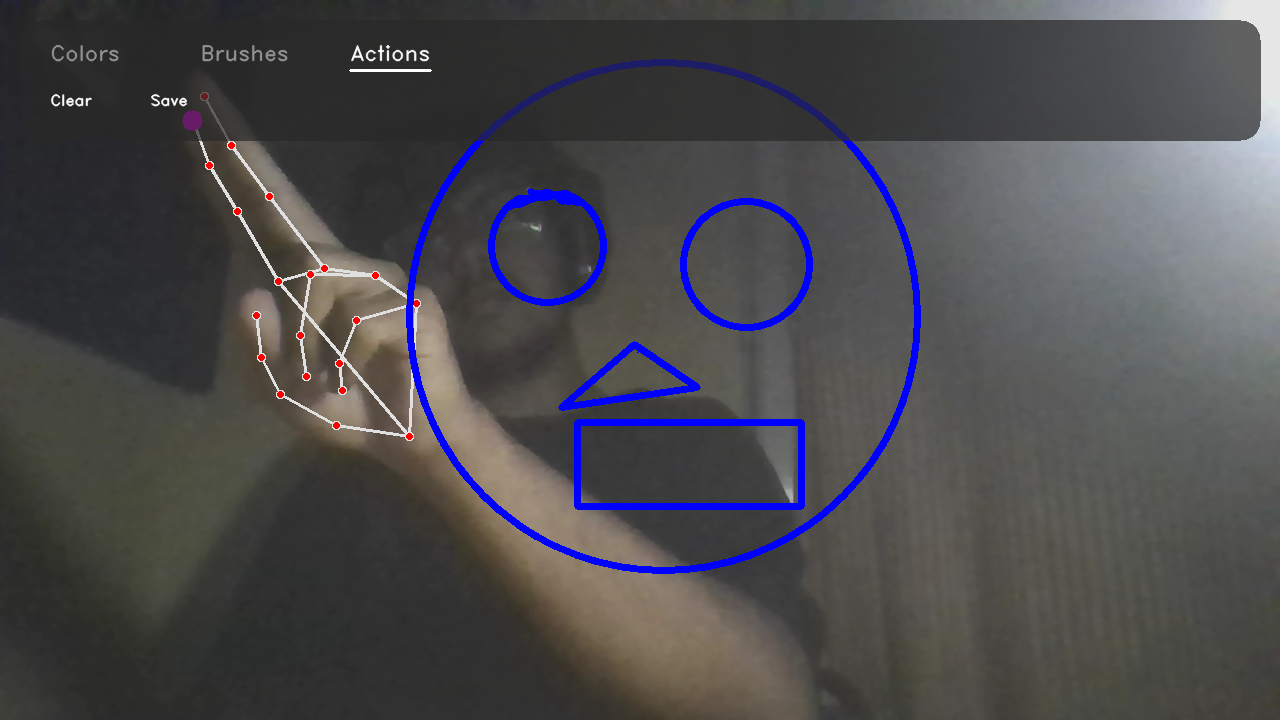
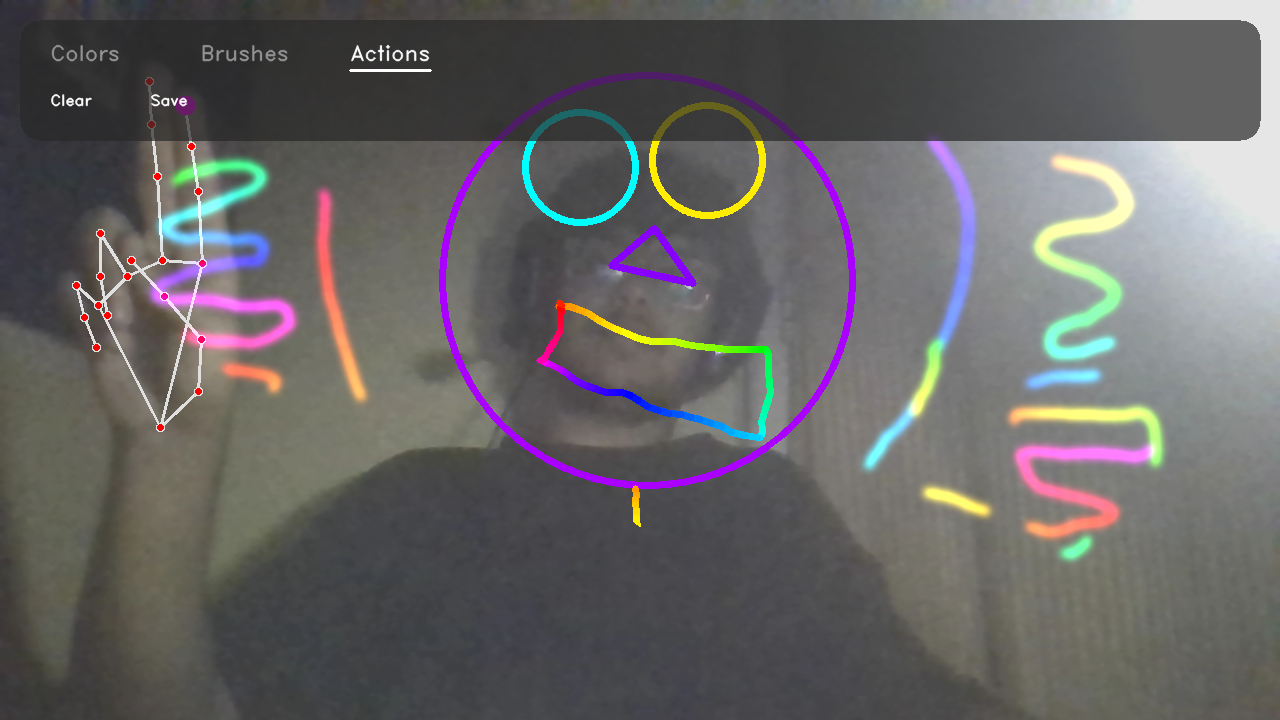
docs: add professional README.md with masterpiece demo

diff --git a/README.md b/README.md
@@ -1,0 +1,75 @@
+# 🎨 AI Virtual Canvas - Premium Edition
+
+![AI Virtual Canvas Test](masterpiece.png)
+
+A high-performance, professional-grade interactive drawing application powered by **OpenCV** and **MediaPipe**. This project transforms your webcam into a digital canvas, allowing you to create art in mid-air with advanced features like neon glow, intelligent shape snapping, and intuitive palm gestures.
+
+---
+
+## 🌟 Key Features
+
+### 🚀 Advanced Rendering
+*   **Neon Glow Brush:** Real-time Gaussian-blurred glow layers for a futuristic light-painting effect.
+*   **Rainbow Spectrum:** A dynamic brush that cycles through the HSV color spectrum as you move.
+*   **Glassmorphism UI:** A modern, semi-transparent HUD with smooth category transitions (Colors, Brushes, Actions).
+*   **EMA Smoothing:** Exponential Moving Average tracking to ensure silky-smooth lines even with jittery hand movements.
+
+### 🧠 Intelligent Interaction
+*   **Shape Snapping:** Draw a rough circle, square, or triangle; the AI analyzes the geometric heuristics and "snaps" it into a perfect primitive.
+*   **Palm-to-Erase:** An intuitive gesture-based eraser that activates when you show an open palm (all fingers up).
+*   **Finger Selection:** Use two fingers (Index + Middle) to navigate the premium menu and change tools mid-air.
+
+---
+
+## ✋ Gesture Guide
+
+| Gesture | Action | Description |
+| :--- | :--- | :--- |
+| **Index Up** | 🖌 **Draw** | Standard drawing mode using the active brush. |
+| **Index + Middle Up** | 👆 **Select** | Hover over the top bar to change colors or modes. |
+| **Open Palm** | 🧽 **Erase** | High-powered eraser centered on your palm. |
+| **Closed Shape** | 📐 **Snap** | Close a shape (start = end) to trigger geometric snapping. |
+
+---
+
+## 🛠 Installation & Setup
+
+### Prerequisites
+*   Python 3.10+
+*   Webcam
+
+### 1. Clone the Repository
+```bash
+git clone https://github.com/SparshMishra09/Hand_Gesture_Control.git
+cd Hand_Gesture_Control
+```
+
+### 2. Install Dependencies
+```bash
+pip install -r requirements.txt
+```
+
+### 3. Launch the Application
+```bash
+python virtual_canvas.py
+```
+
+---
+
+## 🏗 Architectural Breakdown
+
+The project uses a **Triple-Layer Stack** for high performance:
+1.  **Webcam Layer:** Direct hardware feed processed with OpenCV.
+2.  **Transient Stroke Layer:** A temporary "scratchpad" where active drawings live before being processed.
+3.  **Permanent Canvas:** The final destination for "baked" doodles and snapped geometric shapes.
+
+This separation allows the system to delete messy raw strokes instantly when a shape is "snapped," ensuring a professional, clean result every time.
+
+---
+
+## 📝 License
+This project is open-source. Feel free to fork and enhance!
+
+---
+
+*Developed with ❤ by Sparsh Mishra*
